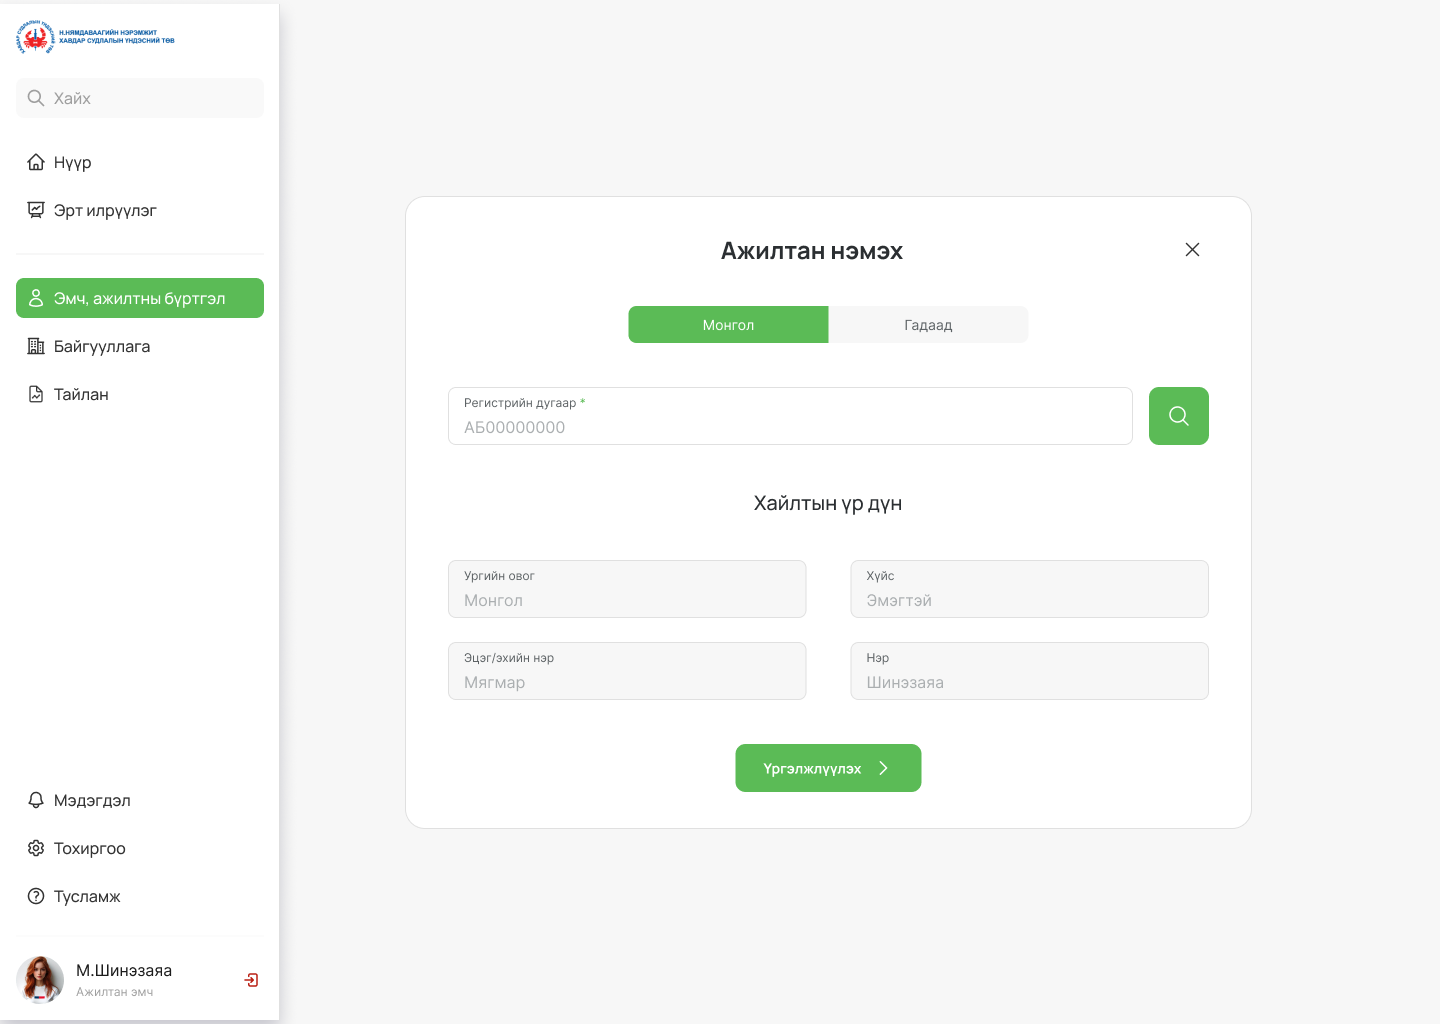
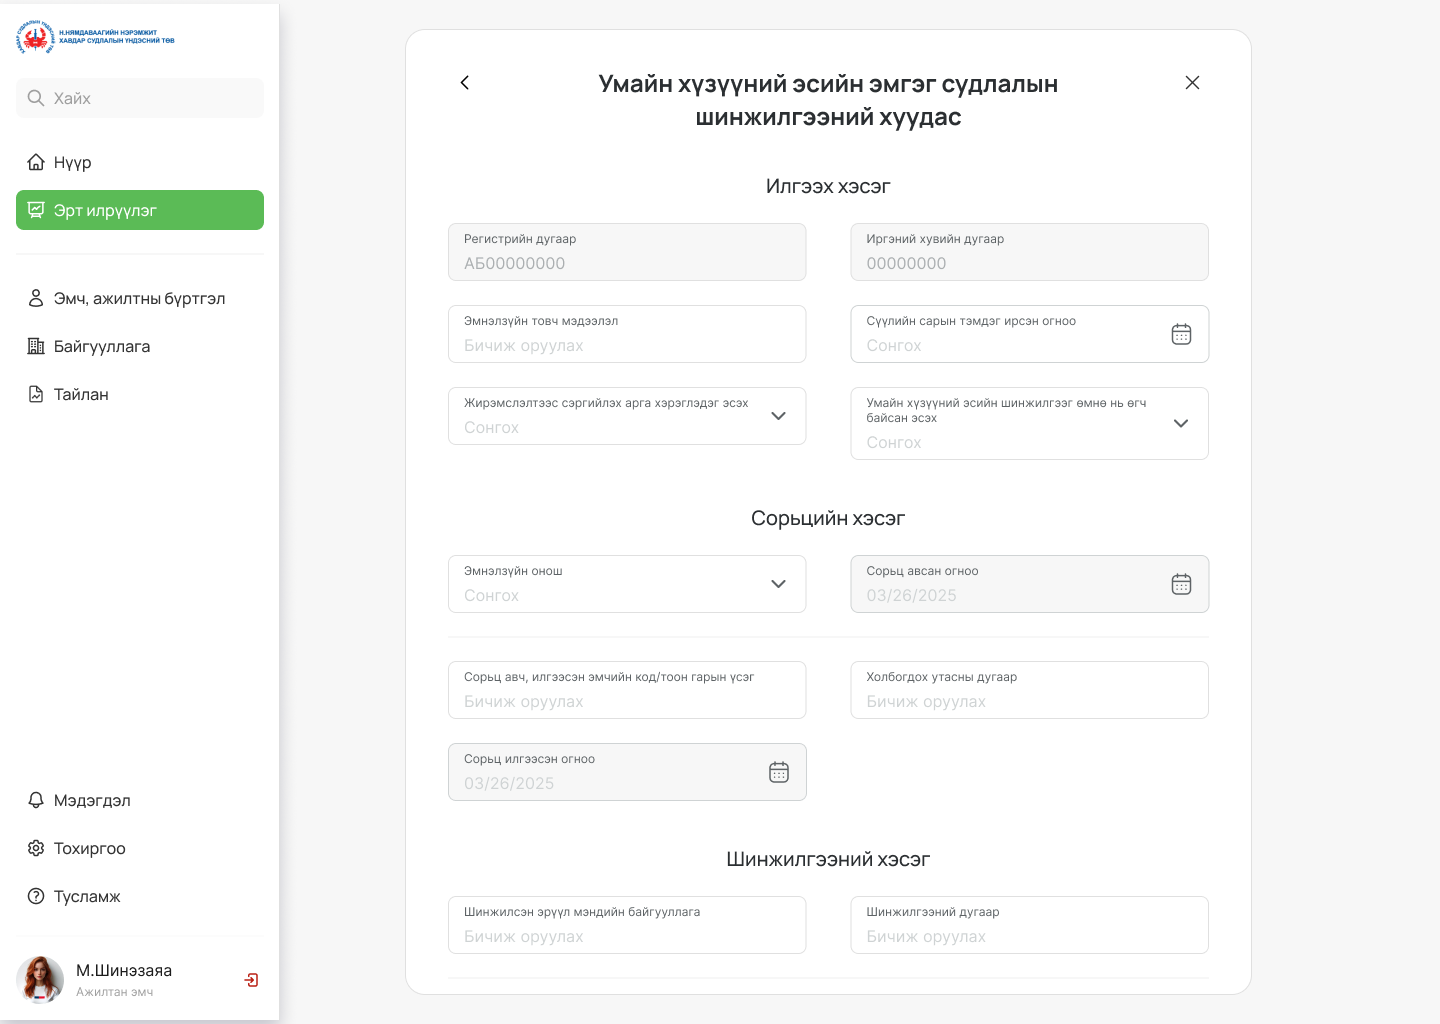
Update National Cancer Center screens (new set + order)
Re-sync the cancer-center gallery to the folder's current 13 screens
(login, home, organization, early-detection flow, registration, staff
management, help). All 1440x1024.

diff --git a/src/app/[locale]/portfolio/page.tsx b/src/app/[locale]/portfolio/page.tsx
@@ -202,7 +202,11 @@ export default function PortfolioPage() {
         { src: "/cancer-center/cancer-06.png", width: 1440, height: 1024 },
         { src: "/cancer-center/cancer-07.png", width: 1440, height: 1024 },
         { src: "/cancer-center/cancer-08.png", width: 1440, height: 1024 },
-        { src: "/cancer-center/cancer-09.png", width: 2878, height: 2036 },
+        { src: "/cancer-center/cancer-09.png", width: 1440, height: 1024 },
+        { src: "/cancer-center/cancer-10.png", width: 1440, height: 1024 },
+        { src: "/cancer-center/cancer-11.png", width: 1440, height: 1024 },
+        { src: "/cancer-center/cancer-12.png", width: 1440, height: 1024 },
+        { src: "/cancer-center/cancer-13.png", width: 1440, height: 1024 },
       ],
     },
     {
